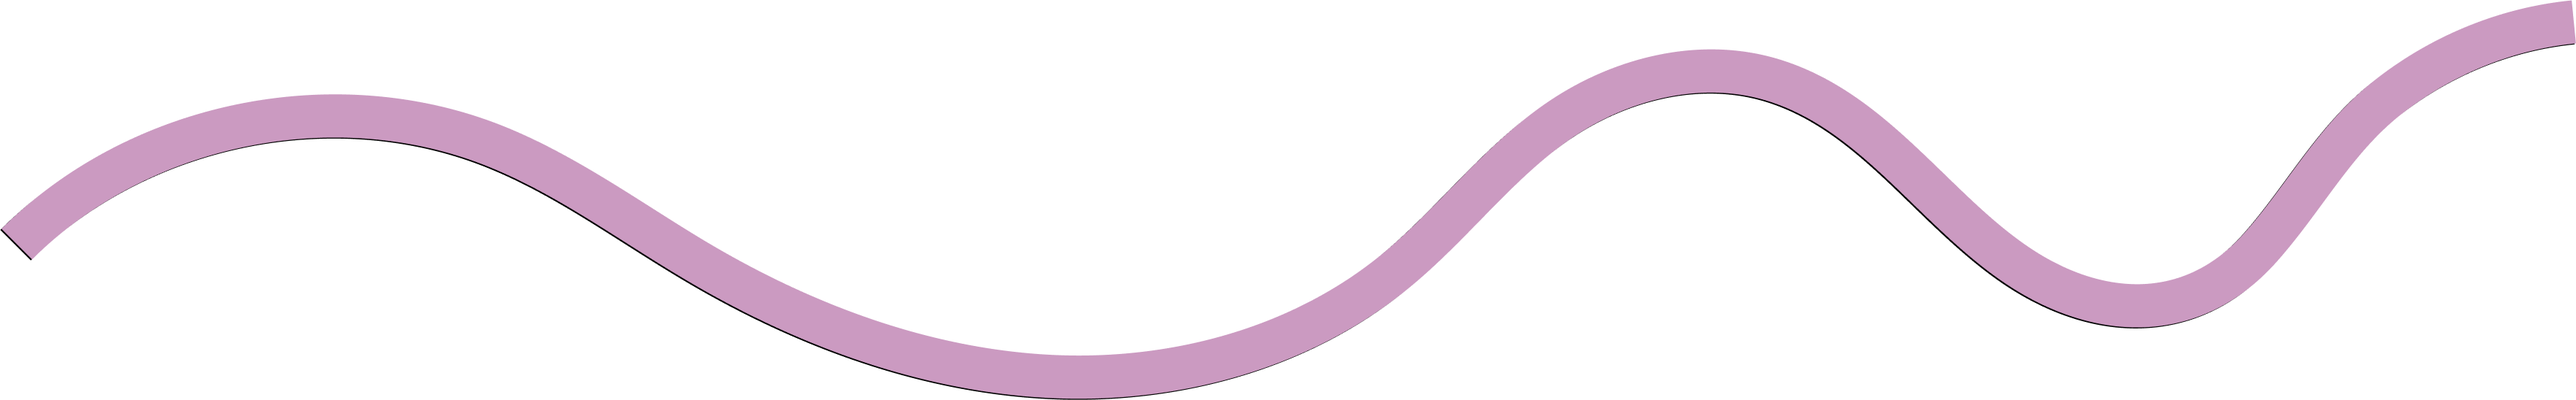
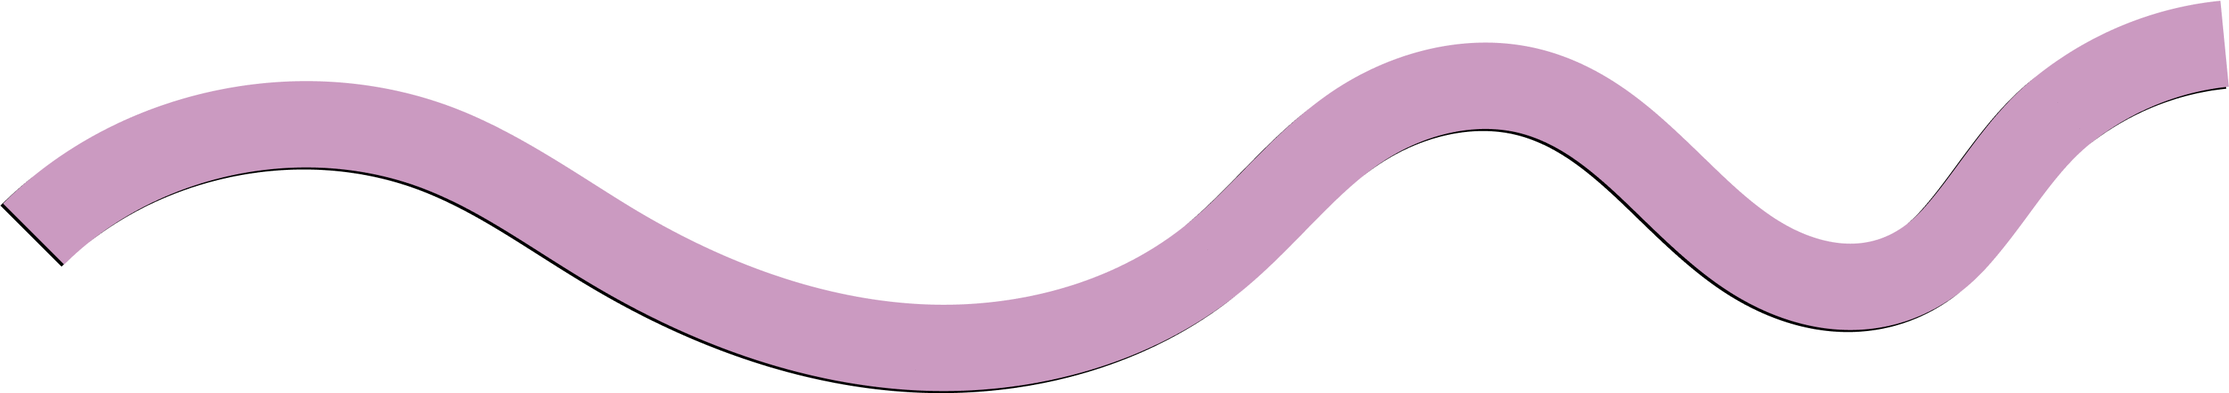
separator image

diff --git a/src/app/components/separator/index.tsx b/src/app/components/separator/index.tsx
@@ -4,7 +4,7 @@ export default function Separator() {
   return (
     <div className="separator-container">
       <Image
-        src="/svgs/separator.svg"
+        src="/images/separator.png"
         alt="squiggle"
         fill
         style={{ objectFit: "cover" }}

diff --git a/src/app/globals.css b/src/app/globals.css
@@ -170,8 +170,8 @@ p {
 .separator-container {
   position: relative;
   width: 100%;
-  height: 365px;
-  margin-top: -35px;
+  height: 300px;
+  /* margin-top: -35px; */
 }
 
 .primary-logo {
